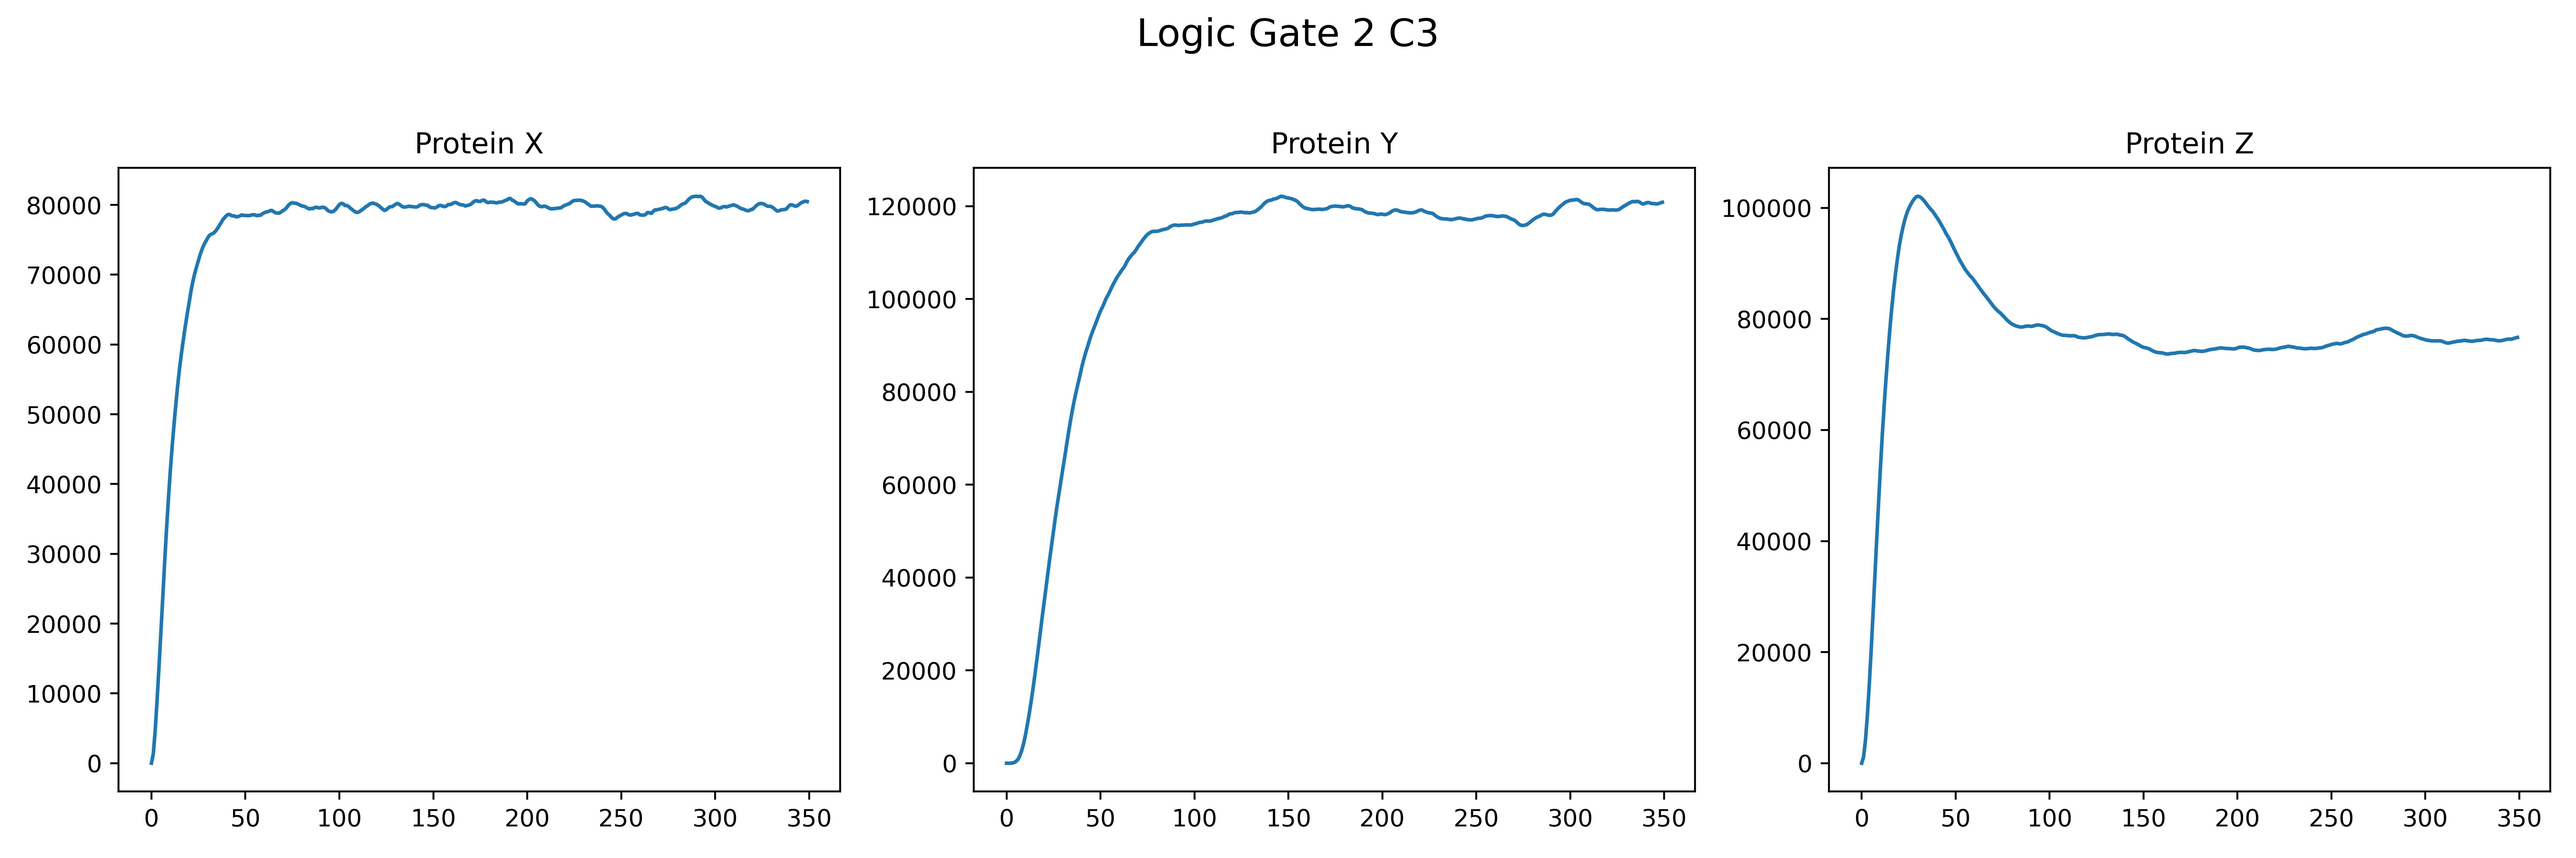
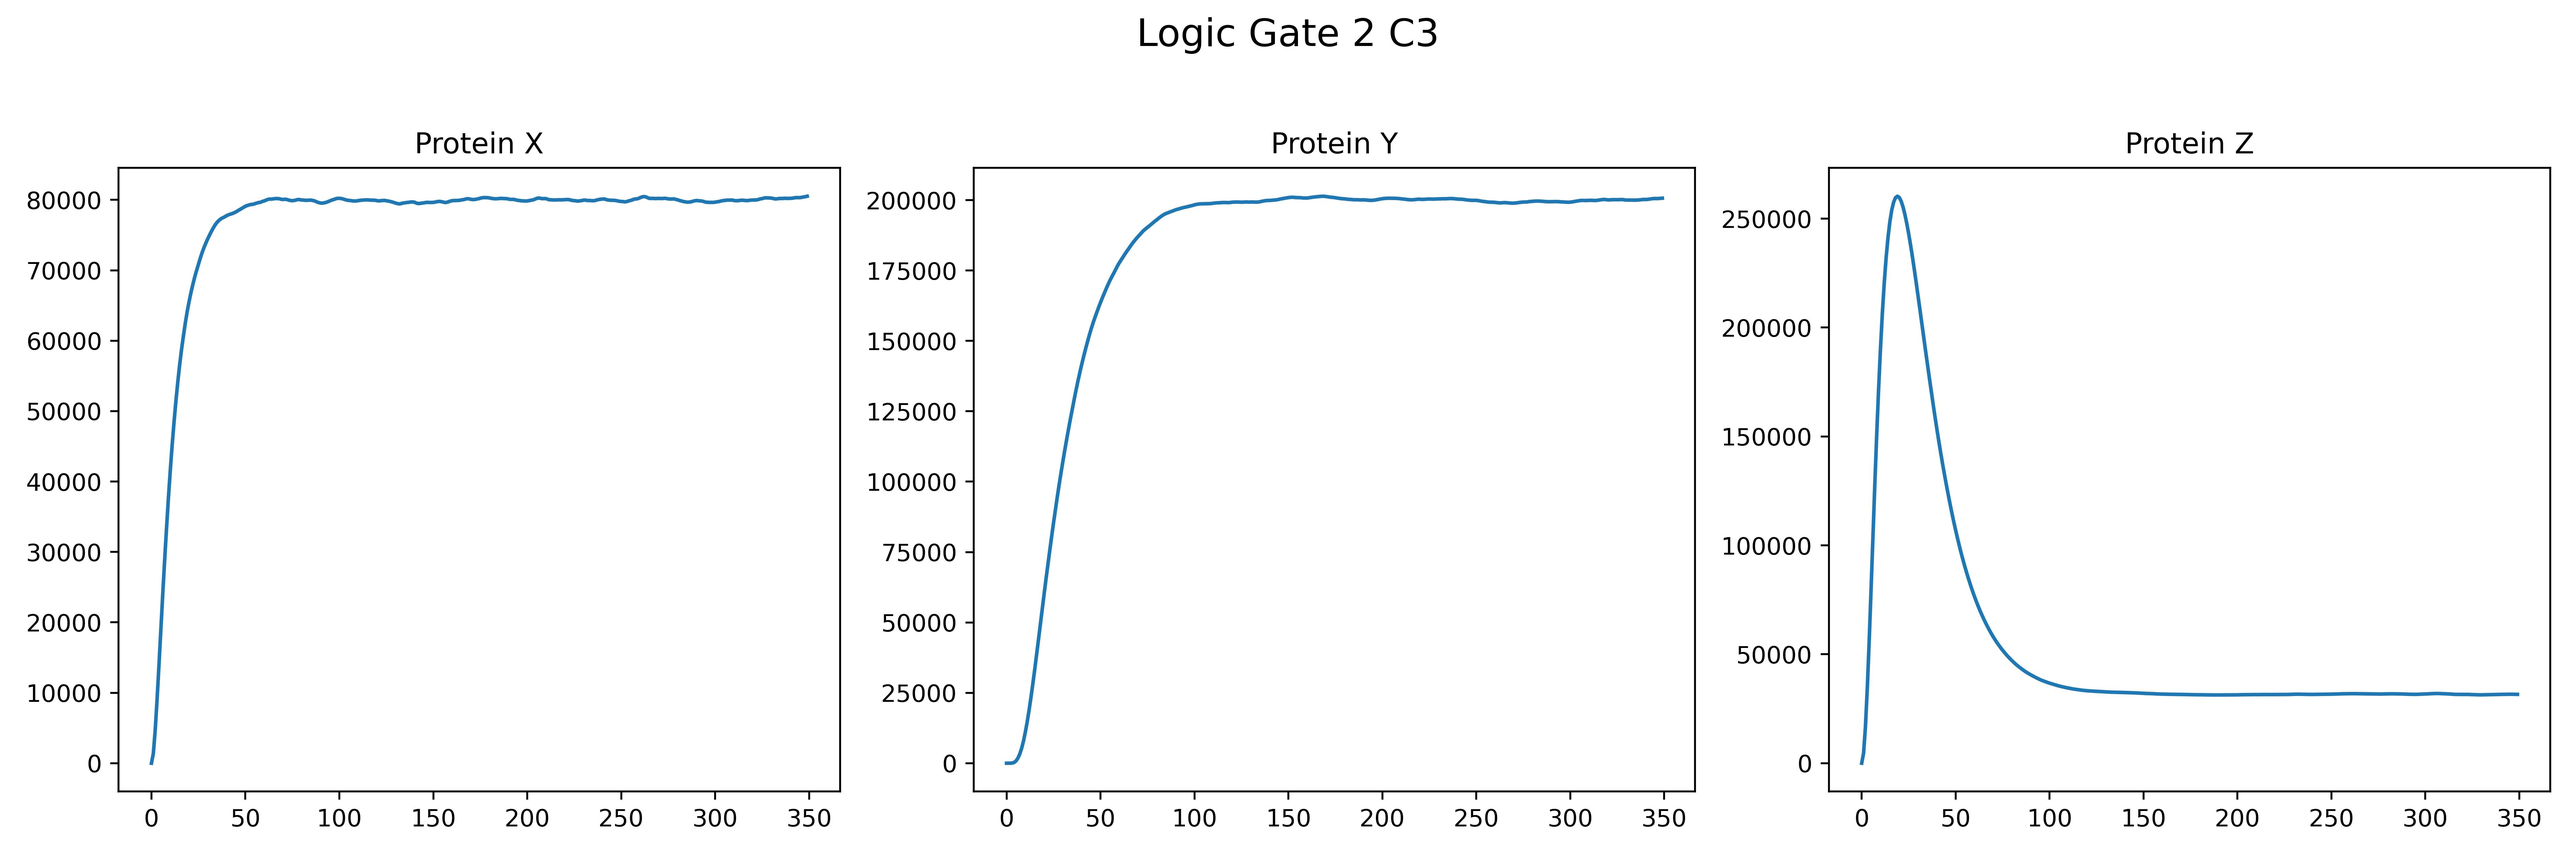
Updates

diff --git a/Logic_Gate_2(AND)/Scripts_Simulations/information_FFL_I3.py b/Logic_Gate_2(AND)/Scripts_Simulations/information_FFL_I3.py
@@ -22,9 +22,6 @@ gammamz = 1/10        #Tasa de degradacion de ARNmZ
 muX     =1/20            #Tasa de degradacion de proteina X
 muY     =1/40            #Tasa de degradacion de proteina Y
 muZ     =1/30            #Tasa de degradacion de proteina Z
-
-My = 10
-Mz = 25
 #___________________________________________________________________________________________________
 
 diccionario_global_FFL_I3 = {}
@@ -41,20 +38,18 @@ for Hill in valores_posibles_Hill:
 
     for Kx in tqdm(valores_posibles_Kx):
         
-
         Mx = Kx/gammamx
         valor_X_estacionario = (Kpx/muX)*Mx
 
-        valor_Y_estacionario = (Kpy/muY)*My
-        valor_Z_estacionario = (Kpz/muZ)*Mz
-
-
         Kxy  = valor_X_estacionario/2        #Coeficiente de interaccion proteina X con ARNmY
-        Kxz  = valor_X_estacionario/10         #Coeficiente de interaccion proteina X con ARNmZ
-        Kyz  = valor_Y_estacionario/100         #Coeficiente de interaccion proteina Y con ARNmZ
+        Kxz  = valor_X_estacionario/5   
 
-        Ky = (My*gammamy)*(((valor_X_estacionario**Hill) + (Kxy**Hill))/(valor_X_estacionario**Hill))
-        Kz = (Mz*gammamz)*( (((valor_Y_estacionario**Hill) + (Kyz**Hill))*((valor_X_estacionario**Hill) + (Kxz **Hill))     )   /  ((valor_Y_estacionario**Hill)*(Kxz**Hill))   )
+        Ky = 5
+        Kz = 10
+
+        valor_Y_estacionario = Ky*(Kpy/(muY*gammamy))*((valor_X_estacionario**Hill)/(valor_X_estacionario**Hill + Kxy**Hill))
+
+        Kyz  = valor_Y_estacionario/100
 
         @njit
         def funcion_creacion_ARNmX():
@@ -206,19 +201,36 @@ for Hill in valores_posibles_Hill:
 
 #    diccionario_global_FFL_I3[f"Coeficiente_Hill_{Hill}"] = [distribucion_proteina_X, distribucion_proteina_Y, distribucion_proteina_Z]
 #    np.save('Simulacion_FFL_I3_AND_final.npy', diccionario_global_FFL_I3)
-celulas = np.mean(celulas, axis=0)
+#%%
+Distribucion_X = celulas[:,:,-3]
+DIstribucion_Z = celulas[:,:,-1]
+#%%
+Informacion = np.zeros((len(Distribucion_X), len(Distribucion_X)))
+for tiempo_i in np.arange(0,len(Distribucion_X)):
+    for tiempo_j in np.arange(0, len(Distribucion_X)):
+        data_I1 = {'X': Distribucion_X[:,tiempo_i],
+                'Y': DIstribucion_Z[:,tiempo_j]}
+        Cov_matrix_I1 = np.array(pd.DataFrame.cov(pd.DataFrame(data_I1)))
+        Informacion[tiempo_i][tiempo_j] = (1/2)*np.log2((Cov_matrix_I1[0][0]* Cov_matrix_I1[1][1])/(Cov_matrix_I1[0][0]* Cov_matrix_I1[1][1] - (Cov_matrix_I1[0][1])**2))
+#%%
+print(np.nanmax(Informacion))
+
 # %%
+import matplotlib.pyplot as plt
+plt.imshow(Informacion)
+#%%
+celulas_promedio = np.mean(celulas, axis=0)
 import matplotlib.pyplot as plt
 fig, axs = plt.subplots(1, 3, figsize=(15, 5))  # 1 fila, 3 columnas
 
-axs[0].plot(celulas[:,4])
+axs[0].plot(celulas_promedio[:,4])
 axs[0].set_title('Protein X')
-axs[1].plot(celulas[:,5])
+axs[1].plot(celulas_promedio[:,5])
 axs[1].set_title('Protein Y')
-axs[2].plot(celulas[:,6])
+axs[2].plot(celulas_promedio[:,6])
 axs[2].set_title('Protein Z')
 fig.suptitle('Logic Gate 2 I3', fontsize=16)
 
 plt.tight_layout(rect=[0, 0, 1, 0.95])
-plt.savefig("Logic_Gate_2_Incoherent_3.jpg", dpi = 500)
+#plt.savefig("Logic_Gate_2_Incoherent_3.jpg", dpi = 500)
 # %%

diff --git a/Logic_Gate_2(AND)/Scripts_Simulations/information_FFL_I2.py b/Logic_Gate_2(AND)/Scripts_Simulations/information_FFL_I2.py
@@ -45,16 +45,15 @@ for Hill in valores_posibles_Hill:
         Mx = Kx/gammamx
         valor_X_estacionario = (Kpx/muX)*Mx
 
-        valor_Y_estacionario = (Kpy/muY)*My
-        valor_Z_estacionario = (Kpz/muZ)*Mz
-
-
         Kxy  = valor_X_estacionario/2        #Coeficiente de interaccion proteina X con ARNmY
-        Kxz  = valor_X_estacionario/2         #Coeficiente de interaccion proteina X con ARNmZ
-        Kyz  = valor_Y_estacionario/2         #Coeficiente de interaccion proteina Y con ARNmZ
+        Kxz  = valor_X_estacionario/2   
 
-        Ky = (My*gammamy)*(((valor_X_estacionario**Hill) + (Kxy**Hill))/(Kxy**Hill))
-        Kz = (Mz*gammamz)*( (((valor_Y_estacionario**Hill) + (Kyz**Hill))*((valor_X_estacionario**Hill) + (Kxz **Hill))     )   /  ((Kyz**Hill)*(Kxz**Hill))   )
+        Ky = 3
+        Kz = 25
+
+        valor_Y_estacionario = Ky*(Kpy/(muY*gammamy))*((Kxy**Hill)/(valor_X_estacionario**Hill + Kxy**Hill))
+        
+        Kyz  = valor_Y_estacionario/2
 
         @njit
         def funcion_creacion_ARNmX():
@@ -207,21 +206,37 @@ for Hill in valores_posibles_Hill:
 
 #    diccionario_global_FFL_I2[f"Coeficiente_Hill_{Hill}"] = [distribucion_proteina_X, distribucion_proteina_Y, distribucion_proteina_Z]
 #    np.save('Simulacion_FFL_I2_AND_final.npy', diccionario_global_FFL_I2)
-celulas = np.mean(celulas, axis=0)
+#%%
+Distribucion_X = celulas[:,:,-3]
+DIstribucion_Z = celulas[:,:,-1]
+#%%
+Informacion = np.zeros((len(Distribucion_X), len(Distribucion_X)))
+for tiempo_i in np.arange(0,len(Distribucion_X)):
+    for tiempo_j in np.arange(0, len(Distribucion_X)):
+        data_I1 = {'X': Distribucion_X[:,tiempo_i],
+                'Y': DIstribucion_Z[:,tiempo_j]}
+        Cov_matrix_I1 = np.array(pd.DataFrame.cov(pd.DataFrame(data_I1)))
+        Informacion[tiempo_i][tiempo_j] = (1/2)*np.log2((Cov_matrix_I1[0][0]* Cov_matrix_I1[1][1])/(Cov_matrix_I1[0][0]* Cov_matrix_I1[1][1] - (Cov_matrix_I1[0][1])**2))
+#%%
+print(np.nanmax(Informacion))
+
 # %%
+import matplotlib.pyplot as plt
+plt.imshow(Informacion)
+#%%
+celulas_promedio = np.mean(celulas, axis=0)
 import matplotlib.pyplot as plt
 fig, axs = plt.subplots(1, 3, figsize=(15, 5))  # 1 fila, 3 columnas
 
-axs[0].plot(celulas[:,4])
+axs[0].plot(celulas_promedio[:,4])
 axs[0].set_title('Protein X')
-axs[1].plot(celulas[:,5])
+axs[1].plot(celulas_promedio[:,5])
 axs[1].set_title('Protein Y')
-axs[2].plot(celulas[:,6])
+axs[2].plot(celulas_promedio[:,6])
 axs[2].set_title('Protein Z')
-fig.suptitle('Logic Gate 2 I1', fontsize=16)
+fig.suptitle('Logic Gate 2 I2', fontsize=16)
 
 plt.tight_layout(rect=[0, 0, 1, 0.95])
-plt.savefig("Logic_Gate_2_Incoherent_2.jpg", dpi = 500)
-
-
+#plt.savefig("Logic_Gate_2_Incoherent_2.jpg", dpi = 500)
+    
 # %%

diff --git a/Logic_Gate_2(AND)/Scripts_Simulations/information_FFL_I4.py b/Logic_Gate_2(AND)/Scripts_Simulations/information_FFL_I4.py
@@ -44,16 +44,15 @@ for Hill in valores_posibles_Hill:
         Mx = Kx/gammamx
         valor_X_estacionario = (Kpx/muX)*Mx
 
-        valor_Y_estacionario = (Kpy/muY)*My
-        valor_Z_estacionario = (Kpz/muZ)*Mz
-
-
         Kxy  = valor_X_estacionario/2        #Coeficiente de interaccion proteina X con ARNmY
-        Kxz  = valor_X_estacionario/2         #Coeficiente de interaccion proteina X con ARNmZ
-        Kyz  = valor_Y_estacionario/2         #Coeficiente de interaccion proteina Y con ARNmZ
+        Kxz  = valor_X_estacionario/2   
 
-        Ky = (My*gammamy)*(((valor_X_estacionario**Hill) + (Kxy**Hill))/(Kxy**Hill))
-        Kz = (Mz*gammamz)*( (((valor_Y_estacionario**Hill) + (Kyz**Hill))*((valor_X_estacionario**Hill) + (Kxz **Hill))     )   /  ((valor_Y_estacionario**Hill)*(valor_X_estacionario**Hill))   )
+        Ky = 3
+        Kz = 25
+
+        valor_Y_estacionario = Ky*(Kpy/(muY*gammamy))*((Kxy**Hill)/(valor_X_estacionario**Hill + Kxy**Hill))
+        
+        Kyz  = valor_Y_estacionario/0.5
 
         @njit
         def funcion_creacion_ARNmX():
@@ -205,20 +204,39 @@ for Hill in valores_posibles_Hill:
 
 #    diccionario_global_FFL_I4[f"Coeficiente_Hill_{Hill}"] = [distribucion_proteina_X, distribucion_proteina_Y, distribucion_proteina_Z]
 #    np.save('Simulacion_FFL_I4_AND_final.npy', diccionario_global_FFL_I4)
-celulas = np.mean(celulas, axis=0)
+#%%
+Distribucion_X = celulas[:,:,-3]
+DIstribucion_Z = celulas[:,:,-1]
+#%%
+Informacion = np.zeros((len(Distribucion_X), len(Distribucion_X)))
+for tiempo_i in np.arange(0,len(Distribucion_X)):
+    for tiempo_j in np.arange(0, len(Distribucion_X)):
+        data_I1 = {'X': Distribucion_X[:,tiempo_i],
+                'Y': DIstribucion_Z[:,tiempo_j]}
+        Cov_matrix_I1 = np.array(pd.DataFrame.cov(pd.DataFrame(data_I1)))
+        Informacion[tiempo_i][tiempo_j] = (1/2)*np.log2((Cov_matrix_I1[0][0]* Cov_matrix_I1[1][1])/(Cov_matrix_I1[0][0]* Cov_matrix_I1[1][1] - (Cov_matrix_I1[0][1])**2))
+#%%
+print(np.nanmax(Informacion))
+
 # %%
+import matplotlib.pyplot as plt
+plt.imshow(Informacion)
+#%%
+celulas_promedio = np.mean(celulas, axis=0)
 import matplotlib.pyplot as plt
 fig, axs = plt.subplots(1, 3, figsize=(15, 5))  # 1 fila, 3 columnas
 
-axs[0].plot(celulas[:,4])
+axs[0].plot(celulas_promedio[:,4])
 axs[0].set_title('Protein X')
-axs[1].plot(celulas[:,5])
+axs[1].plot(celulas_promedio[:,5])
 axs[1].set_title('Protein Y')
-axs[2].plot(celulas[:,6])
+axs[2].plot(celulas_promedio[:,6])
 axs[2].set_title('Protein Z')
 fig.suptitle('Logic Gate 2 I4', fontsize=16)
 
 plt.tight_layout(rect=[0, 0, 1, 0.95])
-plt.savefig("Logic_Gate_2_Incoherent_4.jpg", dpi = 500)
-
+#plt.savefig("Logic_Gate_2_Incoherent_4.jpg", dpi = 500)
+    
+# %%
+Kyz
 # %%

diff --git a/Logic_Gate_2(AND)/Scripts_Simulations/information_FFL_I1.py b/Logic_Gate_2(AND)/Scripts_Simulations/information_FFL_I1.py
@@ -45,16 +45,15 @@ for Hill in valores_posibles_Hill:
         Mx = Kx/gammamx
         valor_X_estacionario = (Kpx/muX)*Mx
 
-        valor_Y_estacionario = (Kpy/muY)*My
-        valor_Z_estacionario = (Kpz/muZ)*Mz
-
-
         Kxy  = valor_X_estacionario/2        #Coeficiente de interaccion proteina X con ARNmY
-        Kxz  = valor_X_estacionario/2         #Coeficiente de interaccion proteina X con ARNmZ
-        Kyz  = valor_Y_estacionario/2         #Coeficiente de interaccion proteina Y con ARNmZ
+        Kxz  = valor_X_estacionario/2   
 
-        Ky = (My*gammamy)*(((valor_X_estacionario**Hill) + (Kxy**Hill))/(valor_X_estacionario**Hill))
-        Kz = (Mz*gammamz)*( (((valor_Y_estacionario**Hill) + (Kyz**Hill))*((valor_X_estacionario**Hill) + (Kxz **Hill))     )   /  ((Kyz**Hill)*(valor_X_estacionario**Hill))   )
+        Ky = 3
+        Kz = 25
+
+        valor_Y_estacionario = Ky*(Kpy/(muY*gammamy))*((valor_X_estacionario**Hill)/(valor_X_estacionario**Hill + Kxy**Hill))
+        
+        Kyz  = valor_Y_estacionario/2
 
         @njit
         def funcion_creacion_ARNmX():
@@ -206,19 +205,37 @@ for Hill in valores_posibles_Hill:
 
 #    diccionario_global_FFL_I1[f"Coeficiente_Hill_{Hill}"] = [distribucion_proteina_X, distribucion_proteina_Y, distribucion_proteina_Z]
 #    np.save('Simulacion_FFL_I1_AND_final.npy', diccionario_global_FFL_I1)
-celulas = np.mean(celulas, axis=0)
+#%%
+Distribucion_X = celulas[:,:,-3]
+DIstribucion_Z = celulas[:,:,-1]
+#%%
+Informacion = np.zeros((len(Distribucion_X), len(Distribucion_X)))
+for tiempo_i in np.arange(0,len(Distribucion_X)):
+    for tiempo_j in np.arange(0, len(Distribucion_X)):
+        data_I1 = {'X': Distribucion_X[:,tiempo_i],
+                'Y': DIstribucion_Z[:,tiempo_j]}
+        Cov_matrix_I1 = np.array(pd.DataFrame.cov(pd.DataFrame(data_I1)))
+        Informacion[tiempo_i][tiempo_j] = (1/2)*np.log2((Cov_matrix_I1[0][0]* Cov_matrix_I1[1][1])/(Cov_matrix_I1[0][0]* Cov_matrix_I1[1][1] - (Cov_matrix_I1[0][1])**2))
+#%%
+print(np.nanmax(Informacion))
+
 # %%
+import matplotlib.pyplot as plt
+plt.imshow(Informacion)
+#%%
+celulas_promedio = np.mean(celulas, axis=0)
 import matplotlib.pyplot as plt
 fig, axs = plt.subplots(1, 3, figsize=(15, 5))  # 1 fila, 3 columnas
 
-axs[0].plot(celulas[:,4])
+axs[0].plot(celulas_promedio[:,4])
 axs[0].set_title('Protein X')
-axs[1].plot(celulas[:,5])
+axs[1].plot(celulas_promedio[:,5])
 axs[1].set_title('Protein Y')
-axs[2].plot(celulas[:,6])
+axs[2].plot(celulas_promedio[:,6])
 axs[2].set_title('Protein Z')
 fig.suptitle('Logic Gate 2 I1', fontsize=16)
 
 plt.tight_layout(rect=[0, 0, 1, 0.95])
 plt.savefig("Logic_Gate_2_Incoherent_1.jpg", dpi = 500)
+    
 # %%

diff --git a/Logic_Gate_2(AND)/Scripts_Simulations/information_FFL_C1.py b/Logic_Gate_2(AND)/Scripts_Simulations/information_FFL_C1.py
@@ -38,7 +38,7 @@ for Hill in valores_posibles_Hill:
         Kxy  = valor_X_estacionario/2        #Coeficiente de interaccion proteina X con ARNmY
         Kxz  = valor_X_estacionario/2         #Coeficiente de interaccion proteina X con ARNmZ
 
-        valor_Y_estacionario = (Kpy/muY)*((valor_X_estacionario**Hill)/(valor_X_estacionario**Hill + Kxy**Hill))
+        valor_Y_estacionario = Ky*(Kpy/muY)*((valor_X_estacionario**Hill)/(valor_X_estacionario**Hill + Kxy**Hill))
 
         Kyz  = valor_Y_estacionario/2         #Coeficiente de interaccion proteina Y con ARNmZ
 
